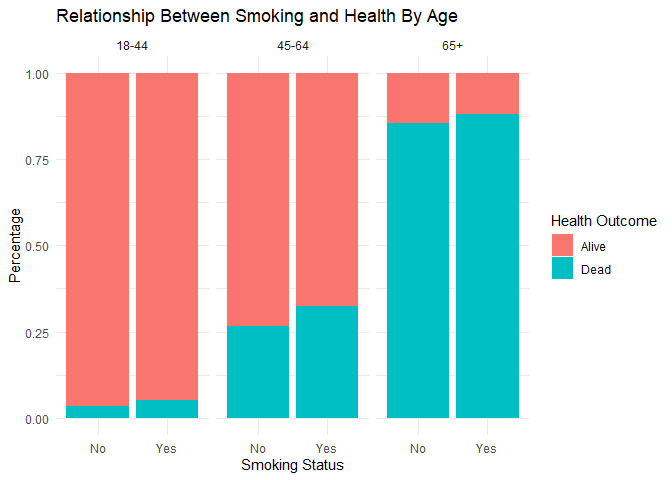
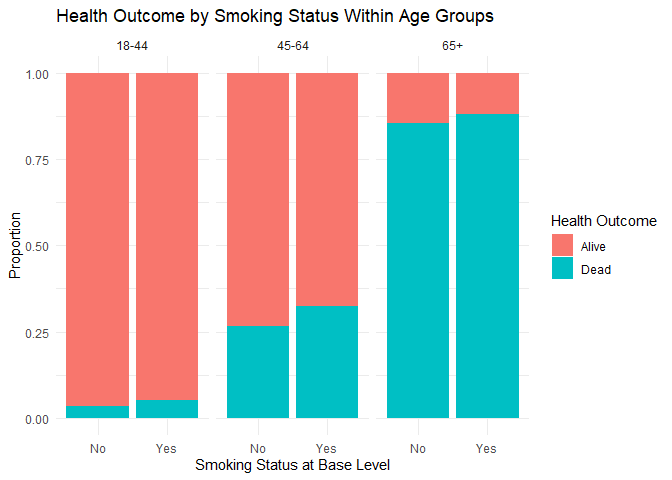
Actual Completed Lab 6?

Changed region(s): [[0.0938, 0.0, 0.75, 0.0625], [0.2812, 0.9375, 0.5938, 1.0], [0.0, 0.4375, 0.0312, 0.5938]]

diff --git a/lab-06.md b/lab-06.md
@@ -75,7 +75,7 @@ staff_long %>%
 Other than these fixes (both of which I do not know how to implement), I
 think the graph and data visualizations look fine as they are.
 
-### Exercise 1
+### Exercise 4
 
 These data were likely obtained from an observational study. I assume
 that the researchers kept track of each individual’s life for a certain
@@ -83,22 +83,22 @@ amount of time and recorded the data accordingly. Though it does seem
 fairly unreasonable to do so for a long amount of time and for so many
 people, based on the data provided, my guess is it is observational
 
-### Exercise 2
+### Exercise 5
 
 There are 1314 observations, each of which represents one individual
 smoker.
 
-### Exercise 3
+### Exercise 6
 
 There are three variables: whether the individual is alive or dead,
 whether they were a smoker, and their age.
 
-## Exercise 4
+## Exercise 7
 
-I would that if an individual is a smoker, there health is poorer, or
-vice versa.
+I would expect that if an individual is a smoker, there health is
+poorer, or vice versa.
 
-## Exercise 5
+## Exercise 8
 
 ``` r
 ggplot(Whickham, aes(x = smoker, fill = outcome)) +
@@ -107,7 +107,7 @@ ggplot(Whickham, aes(x = smoker, fill = outcome)) +
     y = "Percentage",
     x = "Smoking Status",
     fill = "Health Outcome",
-    title = "Relationsihp Between Smoking Status and Health"
+    title = "Relationship Between Smoking Status and Health"
   ) +
   theme_minimal()
 ```
@@ -123,7 +123,7 @@ contributing factor. These results would lead you to believe smoking
 makes little difference in whether you die younger or not, but I would
 conclude that they are inaccurate regardless.
 
-## Exercise 6
+## Exercise 9
 
 ``` r
 Whickham <- Whickham %>%
@@ -136,49 +136,53 @@ Whickham <- Whickham %>%
   )
 ```
 
-## Exercise 7
+## Exercise 10
 
 ``` r
-Whickham %>%
-  ggplot(aes(x = smoker, fill = outcome)) +
+ggplot(Whickham, aes(x = smoker, fill = outcome)) +
   geom_bar(position = "fill") +
   facet_wrap(~ age_cat) +
   labs(
-    y = "Percentage",
-    x = "Smoking Status",
-    fill = "Health Outcome",
-    title = "Relationship Between Smoking and Health By Age"
+    title = "Health Outcome by Smoking Status Within Age Groups",
+    x = "Smoking Status at Base Level",
+    y = "Proportion",
+    fill = "Health Outcome"
   ) +
   theme_minimal()
 ```
 
-![](lab-06_files/figure-gfm/unnamed-chunk-6-1.png)<!-- --> As opposed to
-the previous graph, this plot seems to show that overall, individuals
-who smoked ended up having a higher death rate than those who did not.
-One possible contributing factor is that individuals who are younger are
-likely to have not died as they are generally healthier than older
-individuals, hence the 18-44 age group was skewing the data.
+![](lab-06_files/figure-gfm/unnamed-chunk-6-1.png)<!-- --> This graph
+now shows that smokers have a higher death rate than non smokers, which
+would make sense and meet my expectations. Regarding why the results
+changed, it was likely due to the age variable being added, as older
+people are much more likely to die within 20 years than younger people,
+and smokers in this data set seemed to have been younger overall.
+
+## Exercise 11
 
 ``` r
-Whickham %>%
-  count(age_cat, smoker, outcome) %>%
-  group_by(age_cat, smoker) %>%
-  mutate(prop = n / sum(n))
+plot_data <- Whickham %>%
+  count(age_cat, smoker, outcome)
 ```
 
-    ## # A tibble: 12 × 5
-    ## # Groups:   age_cat, smoker [6]
-    ##    age_cat smoker outcome     n   prop
-    ##    <chr>   <fct>  <fct>   <int>  <dbl>
-    ##  1 18-44   No     Alive     327 0.965 
-    ##  2 18-44   No     Dead       12 0.0354
-    ##  3 18-44   Yes    Alive     270 0.947 
-    ##  4 18-44   Yes    Dead       15 0.0526
-    ##  5 45-64   No     Alive     147 0.735 
-    ##  6 45-64   No     Dead       53 0.265 
-    ##  7 45-64   Yes    Alive     167 0.676 
-    ##  8 45-64   Yes    Dead       80 0.324 
-    ##  9 65+     No     Alive      28 0.145 
-    ## 10 65+     No     Dead      165 0.855 
-    ## 11 65+     Yes    Alive       6 0.12  
-    ## 12 65+     Yes    Dead       44 0.88
+``` r
+ggplot(plot_data, 
+       aes(x = 2, y = n, fill = outcome)) +
+  geom_col(color = "white") +
+  coord_polar(theta = "y") +
+  facet_wrap(~ age_cat) +
+  xlim(0.5, 2.5) +
+  theme_void() +
+  labs(
+    title = "Smoking Status and 20-Year Health Outcome by Age Group",
+    fill = "Outcome"
+  )
+```
+
+![](lab-06_files/figure-gfm/unnamed-chunk-8-1.png)<!-- --> There is a
+very low mortality rate in smokers between the ages of 18-44. This
+increases significantly in the 45-64 age group, and increases again in
+the 65+ age group. Overall, this shows that as you get older, you are
+more vulnerable to the health effects of smoking, and potentially
+suggests that if you smoke at an older age, the onset of said effects is
+much quicker.
